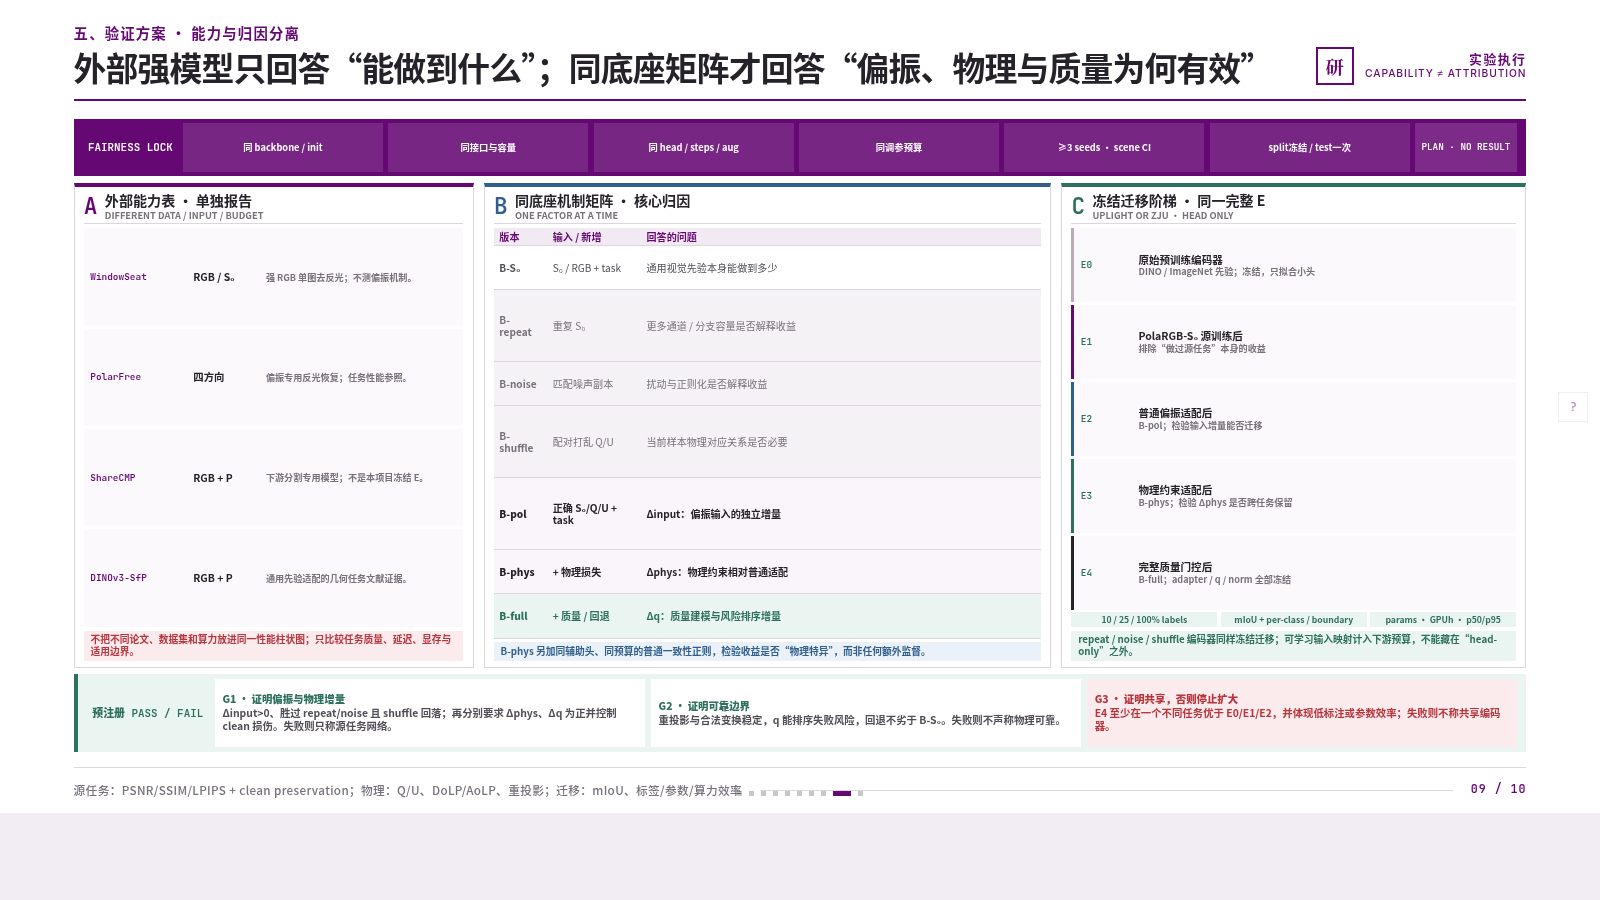
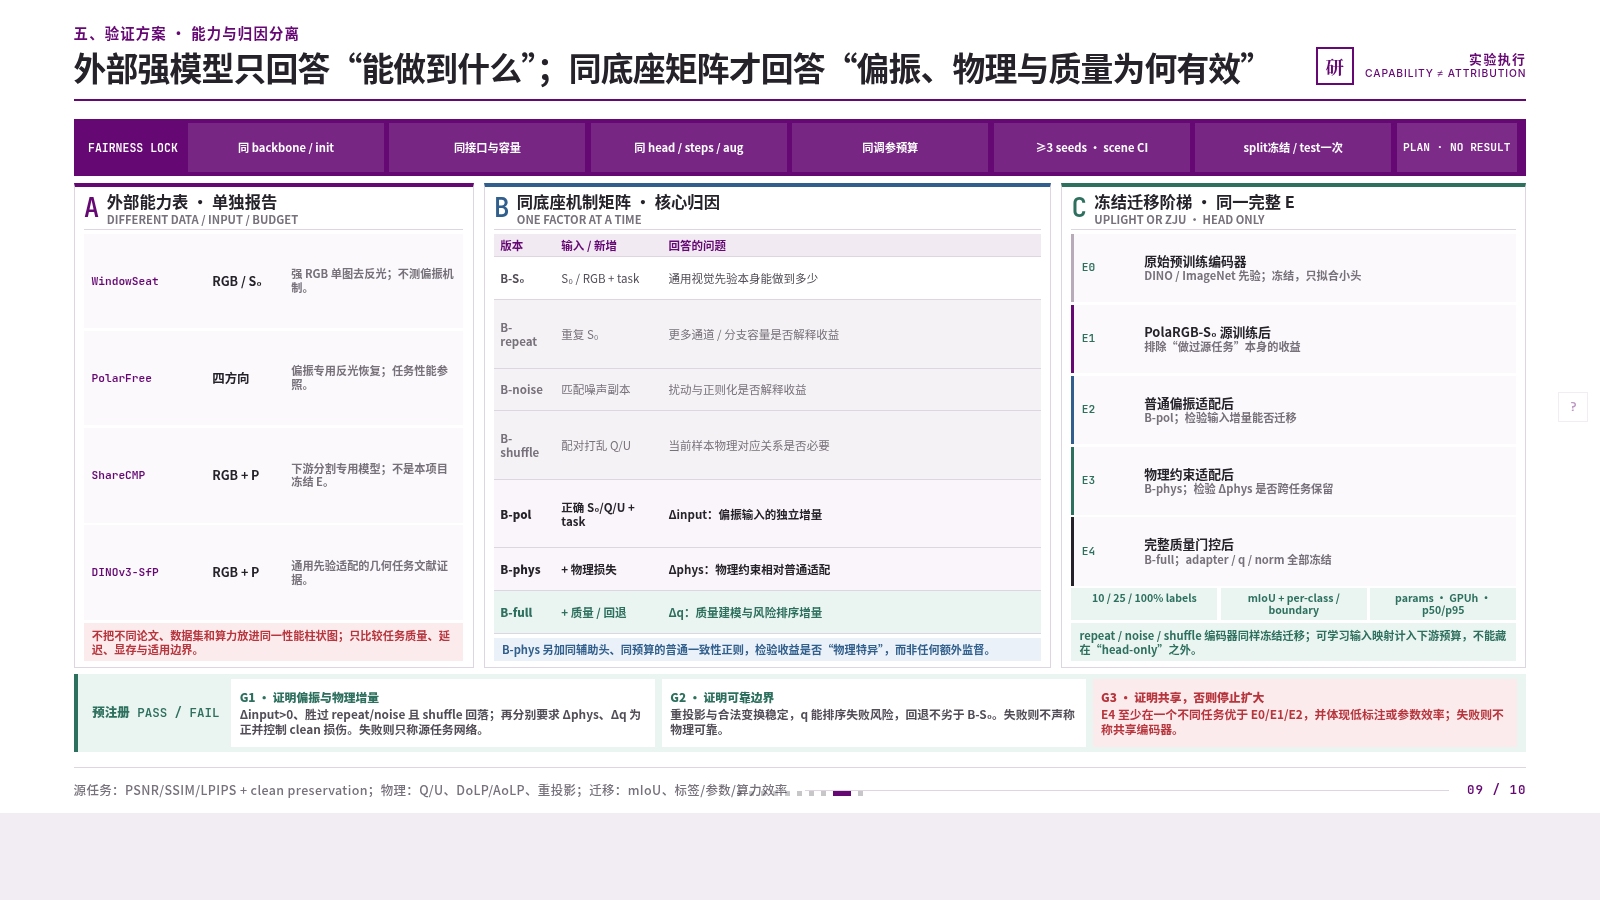
docs: enlarge validation slide typography

diff --git a/demo/tsinghua-ppt/index.html b/demo/tsinghua-ppt/index.html
@@ -1105,6 +1105,29 @@
   .transfer-protocol{display:grid;grid-template-columns:repeat(3,1fr);gap:.22vw}.transfer-protocol span{padding:.3vh .2vw;background:var(--success-soft);color:var(--success);text-align:center;font:750 clamp(8px,.54vw,10px)/1.1 var(--sans)}
   .proof-bottom{display:grid;grid-template-columns:auto repeat(3,1fr);gap:.42vw;align-items:stretch;padding:.58vh .6vw;background:var(--success-soft);border-left:4px solid var(--success)}.proof-bottom>strong{display:grid;place-items:center;padding:0 .32vw;color:var(--success);font:800 clamp(10px,.68vw,13px)/1.15 var(--mono);text-align:center}.proof-gate{display:grid;align-content:center;padding:.44vh .46vw;background:#fff;color:var(--ink-soft);font:650 clamp(10px,.65vw,12px)/1.22 var(--sans)}.proof-gate b{display:block;margin-bottom:.15vh;color:var(--success)}.proof-gate.stop{background:var(--danger-soft);color:var(--danger)}.proof-gate.stop b{color:var(--danger)}
 
+  /* 09 · 投影可读性放大：保持能力表、机制矩阵与迁移阶梯内容不变 */
+  .proof-separation-layout .proof-lock>strong{font-size:clamp(11px,.72vw,14px)}
+  .proof-separation-layout .proof-lock span{font-size:clamp(11px,.7vw,13px);line-height:1.18}
+  .proof-separation-layout .proof-lock em{font-size:clamp(11px,.7vw,13px)}
+  .proof-separation-layout .proof-panel-head .pid{font-size:clamp(24px,1.62vw,32px)}
+  .proof-separation-layout .proof-panel-head h2{font-size:clamp(16px,1.02vw,20px);line-height:1.18}
+  .proof-separation-layout .proof-panel-head p{font-size:clamp(11px,.7vw,13px);line-height:1.18}
+  .proof-separation-layout .external-row{grid-template-columns:7.2em 4.6em 1fr;padding:.58vh .48vw}
+  .proof-separation-layout .external-row b{font-size:clamp(11px,.7vw,13px)}
+  .proof-separation-layout .external-row strong{font-size:clamp(12px,.78vw,15px);line-height:1.18}
+  .proof-separation-layout .external-row span{font-size:clamp(11px,.7vw,13px);line-height:1.24}
+  .proof-separation-layout .proof-panel-note{font-size:clamp(11px,.7vw,13px);line-height:1.28;padding:.56vh .5vw}
+  .proof-separation-layout .mechanism-matrix th,
+  .proof-separation-layout .mechanism-matrix td{font-size:clamp(11px,.72vw,13px);line-height:1.22;padding:.5vh .4vw}
+  .proof-separation-layout .transfer-step{grid-template-columns:3.5em 1fr;padding:.54vh .46vw}
+  .proof-separation-layout .transfer-step b{font-size:clamp(11px,.7vw,13px)}
+  .proof-separation-layout .transfer-step strong{font-size:clamp(12px,.8vw,15px);line-height:1.18}
+  .proof-separation-layout .transfer-step span{font-size:clamp(11px,.7vw,13px);line-height:1.24}
+  .proof-separation-layout .transfer-protocol span{font-size:clamp(10px,.66vw,12px);line-height:1.18;padding:.4vh .24vw}
+  .proof-separation-layout .proof-bottom>strong{font-size:clamp(12px,.78vw,15px)}
+  .proof-separation-layout .proof-gate{font-size:clamp(11px,.74vw,14px);line-height:1.3;padding:.54vh .52vw}
+  [data-slide-id="capability-attribution-proof"] .thu-footer{font-size:clamp(12px,.78vw,15px)}
+
   /* 10 · 结果式收束 */
   .compact-closing{height:100%;display:grid;grid-template-columns:63% 1fr;background:var(--accent);color:#fff}
   .compact-closing-main{display:grid;grid-template-rows:auto auto 1fr auto;gap:1.5vh;padding:5.2vh 4.4vw;position:relative;overflow:hidden}
